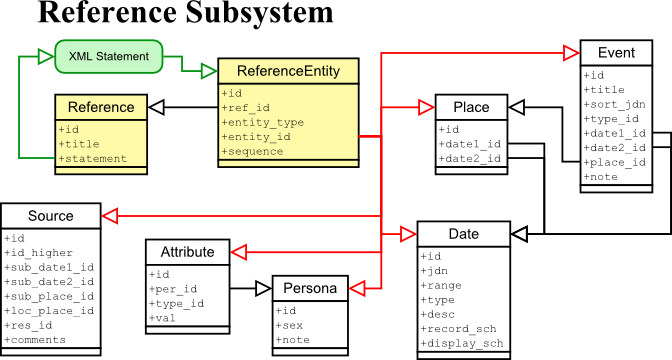
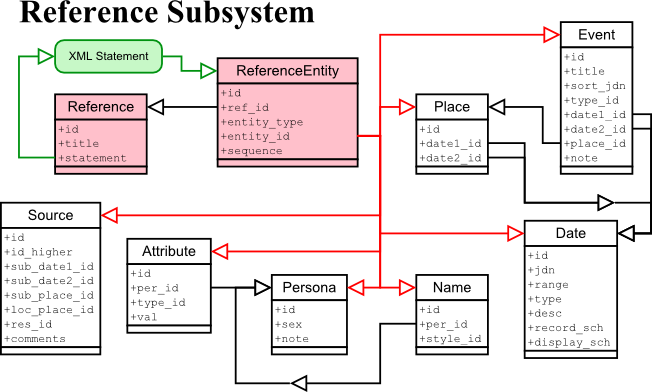
Update website and diagrams for database 0.0.8 test 3.
git-svn-id: https://svn.code.sf.net/p/thefamilypack/code/tfp/trunk@112 0b5b8454-fdc9-41d1-a9ee-242ce37e0c65

diff --git a/website/db/dbdesign.htm b/website/db/dbdesign.htm
@@ -118,24 +118,28 @@
     <td><a href="#Individual">Individual</a></td>
     <td><a href="#IndividualPersona">IndividualPersona</a></td>
     <td><a href="#Name">Name</a></td>
-    <td><a href="#NameStyle">NameStyle</a></td>
-    <td><a href="#NameType">NameType</a></td>
+    <td><a href="#NamePart">NamePart</a></td>
+    <td><a href="#NamePartType">NamePartType</a></td>
    </tr>
    <tr>
+    <td><a href="#NameStyle">NameStyle</a></td>
     <td><a href="#Persona">Persona</a></td>
     <td><a href="#Place">Place</a></td>
     <td><a href="#PlacePart">PlacePart</a></td>
     <td><a href="#PlacePartType">PlacePartType</a></td>
     <td><a href="#Reference">Reference</a></td>
-    <td><a href="#ReferenceEntity">ReferenceEntity</a></td>
    </tr>
    <tr>
+    <td><a href="#ReferenceEntity">ReferenceEntity</a></td>
     <td><a href="#Repository">Repository</a></td>
     <td><a href="#RepositorySource">RepositorySource</a></td>
     <td><a href="#Researcher">Researcher</a></td>
     <td><a href="#Source">Source</a></td>
     <td><a href="#User">User</a></td>
+   </tr>
+   <tr>
     <td><a href="#Version">Version</a></td>
+    <td colspan='0' class="na">&nbsp;</td>
    </tr>
    <!-- <td colspan='0' class="na">&nbsp;</td> -->
   </table>
@@ -637,17 +641,39 @@
     <tr>
      <td>id</td>
      <td>Integer PK</td>
-     <td>Unique key identifying a Name</td>
+     <td>Unique key identifying a Name.</td>
     </tr>
     <tr>
      <td>per_id</td>
      <td>Integer</td>
-     <td>Pointer to a Person ID</td>
+     <td>Pointer to a Person ID.</td>
+    </tr>
+    <tr>
+     <td>style_id</td>
+     <td>Integer</td>
+     <td>Identifier that indicates to which NameStyle this name belongs.</td>
+    </tr>
+
+    <tr id="NamePart">
+     <td colspan="3" class="filler"><a href="#">Top</a></td>
+    </tr>
+    <tr class="head">
+     <td colspan="3"><b>NamePart</b></td>
+    </tr>
+    <tr>
+     <td>id</td>
+     <td>Integer PK</td>
+     <td>Unique key identifying a NamePart.</td>
+    </tr>
+    <tr>
+     <td>name_id</td>
+     <td>Integer</td>
+     <td>Pointer to the Name ID that this part belongs to.</td>
     </tr>
     <tr>
      <td>type_id</td>
      <td>Integer</td>
-     <td>Identifier that indicates to which NameType this name belongs.</td>
+     <td>Identifier that indicates to which NamePartType this name belongs.</td>
     </tr>
     <tr>
      <td>val</td>
@@ -658,6 +684,28 @@
      <td>sequence</td>
      <td>Integer</td>
      <td>A number to show a name's position in the full name</td>
+    </tr>
+
+    <tr id="NamePartType">
+     <td colspan="3" class="filler"><a href="#">Top</a></td>
+    </tr>
+    <tr class="head">
+     <td colspan="3"><b>NamePartType</b></td>
+    </tr>
+    <tr>
+     <td>id</td>
+     <td>Integer PK</td>
+     <td>Unique key identifying a NamePartType.</td>
+    </tr>
+    <tr>
+     <td>grp</td>
+     <td>Integer</td>
+     <td>Holds 0=Unstated, 1=Name part, 2=Title</td>
+    </tr>
+    <tr>
+     <td>name</td>
+     <td>Text</td>
+     <td>Name of the NamePartType, ie "Given name" or "Rank"</td>
     </tr>
 
     <tr id="NameStyle">
@@ -675,28 +723,6 @@
      <td>name</td>
      <td>Text</td>
      <td>Name of the NameStyle, ie "Birth name" or "Married name"</td>
-    </tr>
-
-    <tr id="NameType">
-     <td colspan="3" class="filler"><a href="#">Top</a></td>
-    </tr>
-    <tr class="head">
-     <td colspan="3"><b>NameType</b></td>
-    </tr>
-    <tr>
-     <td>id</td>
-     <td>Integer PK</td>
-     <td>Unique key identifying a NameType</td>
-    </tr>
-    <tr>
-     <td>grp</td>
-     <td>Integer</td>
-     <td>Holds 0=Unstated, 1=Name part, 2=Title</td>
-    </tr>
-    <tr>
-     <td>name</td>
-     <td>Text</td>
-     <td>Name of the NameType, ie "Given name" or "Rank"</td>
     </tr>
 
     <tr id="Persona">

diff --git a/website/db/conc/names.htm b/website/db/conc/names.htm
@@ -7,7 +7,7 @@
 </head>
 <body>
 
-<h1><a  href="../../index.htm"><img id="logo" src="../../tfp5.gif" alt="Logo" /></a>The Family Pack<br/>Database: Personas</h1>
+<h1><a  href="../../index.htm"><img id="logo" src="../../tfp5.gif" alt="Logo" /></a>The Family Pack<br/>Database: Names</h1>
 
 <div id="page" class="database">
 
@@ -22,8 +22,8 @@
     <a href="conclusions.htm" class="m-item level1">Conclusions</a>
       <a href="dates.htm" class="m-item level2">Dates</a>
       <a href="places.htm" class="m-item level2">Places</a>
-      <a href="names.htm" class="m-item level2">Names</a>
-      <a href="personas.htm" class="m-item level2 thispage">Personas</a>
+      <a href="names.htm" class="m-item level2 thispage">Names</a>
+      <a href="personas.htm" class="m-item level2">Personas</a>
       <a href="events.htm" class="m-item level2">Events</a>
       <a href="individuals.htm" class="m-item level2">Individuals</a>
   <a href="../../com/common.htm" class="m-item">Common Data</a>
@@ -41,17 +41,23 @@
 
 <div id="content">
 
-<blockquote>
+<blockquote class="long">
 <p>
-  Because real human beings leave data tracks through time as if they were disparate shadow personas, this entity allows the genealogical researcher to tie together data from different personas that he or she believes belong to the same real person.
+`The name of the song is called "Haddocks' Eyes".'
+`Oh, that's the name of the song, is it?' Alice said, trying to feel interested.
+`No, you don't understand,' the Knight said, looking a little vexed. `That's what the name is called. The name really is "The Aged Aged Man".'
+`Then I ought to have said "That's what the song is called"?' Alice corrected herself.
+`No, you oughtn't: that's quite another thing! The song is called "Ways and Means": but that's only what it's called, you know!'
+`Well, what is the song, then?' said Alice, who was by this time completely bewildered.
+`I was coming to that,' the Knight said. `The song really is "A-sitting On a Gate": and the tune's my own invention.'
 </p>
-<p class="attribute">GENTECH Genealogical Data Model 1.1 - from the Persona entity definition.</p>
+<p class="attribute">Lewis Carroll - "Through the Looking Glass".</p>
 </blockquote>
 
-<div class="diag"><img src='tfp-persona.png' alt='Place Subsystem' /></div>
-<h2>Personas and Attributes</h2>
+<div class="diag"><img src='tfp-name.png' alt='Name Subsystem' /></div>
+<h2>Names</h2>
 <p>
- Personas are central to the database, they are used collect snippets of information found in records and then collected together to create individuals.
+ Under construction
 </p>
 
 </div>

diff --git a/website/tfp.css b/website/tfp.css
@@ -6,8 +6,8 @@ body {
  background-color: #fff;
 }
 
-img#logo { 
- border-style: none; 
+img#logo {
+ border-style: none;
  float: left;
 }
 
@@ -26,9 +26,9 @@ h1 {
  padding-top: 0px;
 }
 
-#menu a:link, #menu a:visited, #menu a:hover, #menu a:active { 
+#menu a:link, #menu a:visited, #menu a:hover, #menu a:active {
  text-decoration: none;
-} 
+}
 
 #menu {
  position: absolute;
@@ -56,13 +56,13 @@ h1 {
 #menu a.level1 {
  margin-left: 30px;
  margin-right: 15px;
- 
+
 }
 
 #menu a.level2 {
  margin-left: 45px;
  margin-right: 0;
- 
+
 }
 
 #menu a:link, #menu a:visited, #menu a:active {
@@ -89,8 +89,8 @@ h1 {
  background-position: left;
 }
 
-#menu img { 
- border-style: none; 
+#menu img {
+ border-style: none;
 }
 
 div#content {
@@ -99,7 +99,7 @@ div#content {
 }
 
 div.database #content {
- min-height: 500px;  /* adjust this when menu height changes */
+ min-height: 540px;  /* adjust this when menu height changes */
 }
 
 blockquote {

diff --git a/website/db/conc/conclusions.htm b/website/db/conc/conclusions.htm
@@ -22,6 +22,7 @@
     <a href="conclusions.htm" class="m-item level1 thispage">Conclusions</a>
       <a href="dates.htm" class="m-item level2">Dates</a>
       <a href="places.htm" class="m-item level2">Places</a>
+      <a href="names.htm" class="m-item level2">Names</a>
       <a href="personas.htm" class="m-item level2">Personas</a>
       <a href="events.htm" class="m-item level2">Events</a>
       <a href="individuals.htm" class="m-item level2">Individuals</a>

diff --git a/website/db/conc/dates.htm b/website/db/conc/dates.htm
@@ -43,6 +43,7 @@
     <a href="conclusions.htm" class="m-item level1">Conclusions</a>
       <a href="dates.htm" class="m-item level2 thispage">Dates</a>
       <a href="places.htm" class="m-item level2">Places</a>
+      <a href="names.htm" class="m-item level2">Names</a>
       <a href="personas.htm" class="m-item level2">Personas</a>
       <a href="events.htm" class="m-item level2">Events</a>
       <a href="individuals.htm" class="m-item level2">Individuals</a>

diff --git a/website/db/conc/events.htm b/website/db/conc/events.htm
@@ -22,6 +22,7 @@
     <a href="conclusions.htm" class="m-item level1">Conclusions</a>
       <a href="dates.htm" class="m-item level2">Dates</a>
       <a href="places.htm" class="m-item level2">Places</a>
+      <a href="names.htm" class="m-item level2">Names</a>
       <a href="personas.htm" class="m-item level2">Personas</a>
       <a href="events.htm" class="m-item level2 thispage">Events</a>
       <a href="individuals.htm" class="m-item level2">Individuals</a>

diff --git a/website/db/conc/individuals.htm b/website/db/conc/individuals.htm
@@ -22,6 +22,7 @@
     <a href="conclusions.htm" class="m-item level1">Conclusions</a>
       <a href="dates.htm" class="m-item level2">Dates</a>
       <a href="places.htm" class="m-item level2">Places</a>
+      <a href="names.htm" class="m-item level2">Names</a>
       <a href="personas.htm" class="m-item level2">Personas</a>
       <a href="events.htm" class="m-item level2">Events</a>
       <a href="individuals.htm" class="m-item level2 thispage">Individuals</a>

diff --git a/website/db/conc/places.htm b/website/db/conc/places.htm
@@ -22,6 +22,7 @@
     <a href="conclusions.htm" class="m-item level1">Conclusions</a>
       <a href="dates.htm" class="m-item level2">Dates</a>
       <a href="places.htm" class="m-item level2 thispage">Places</a>
+      <a href="names.htm" class="m-item level2">Names</a>
       <a href="personas.htm" class="m-item level2">Personas</a>
       <a href="events.htm" class="m-item level2">Events</a>
       <a href="individuals.htm" class="m-item level2">Individuals</a>
